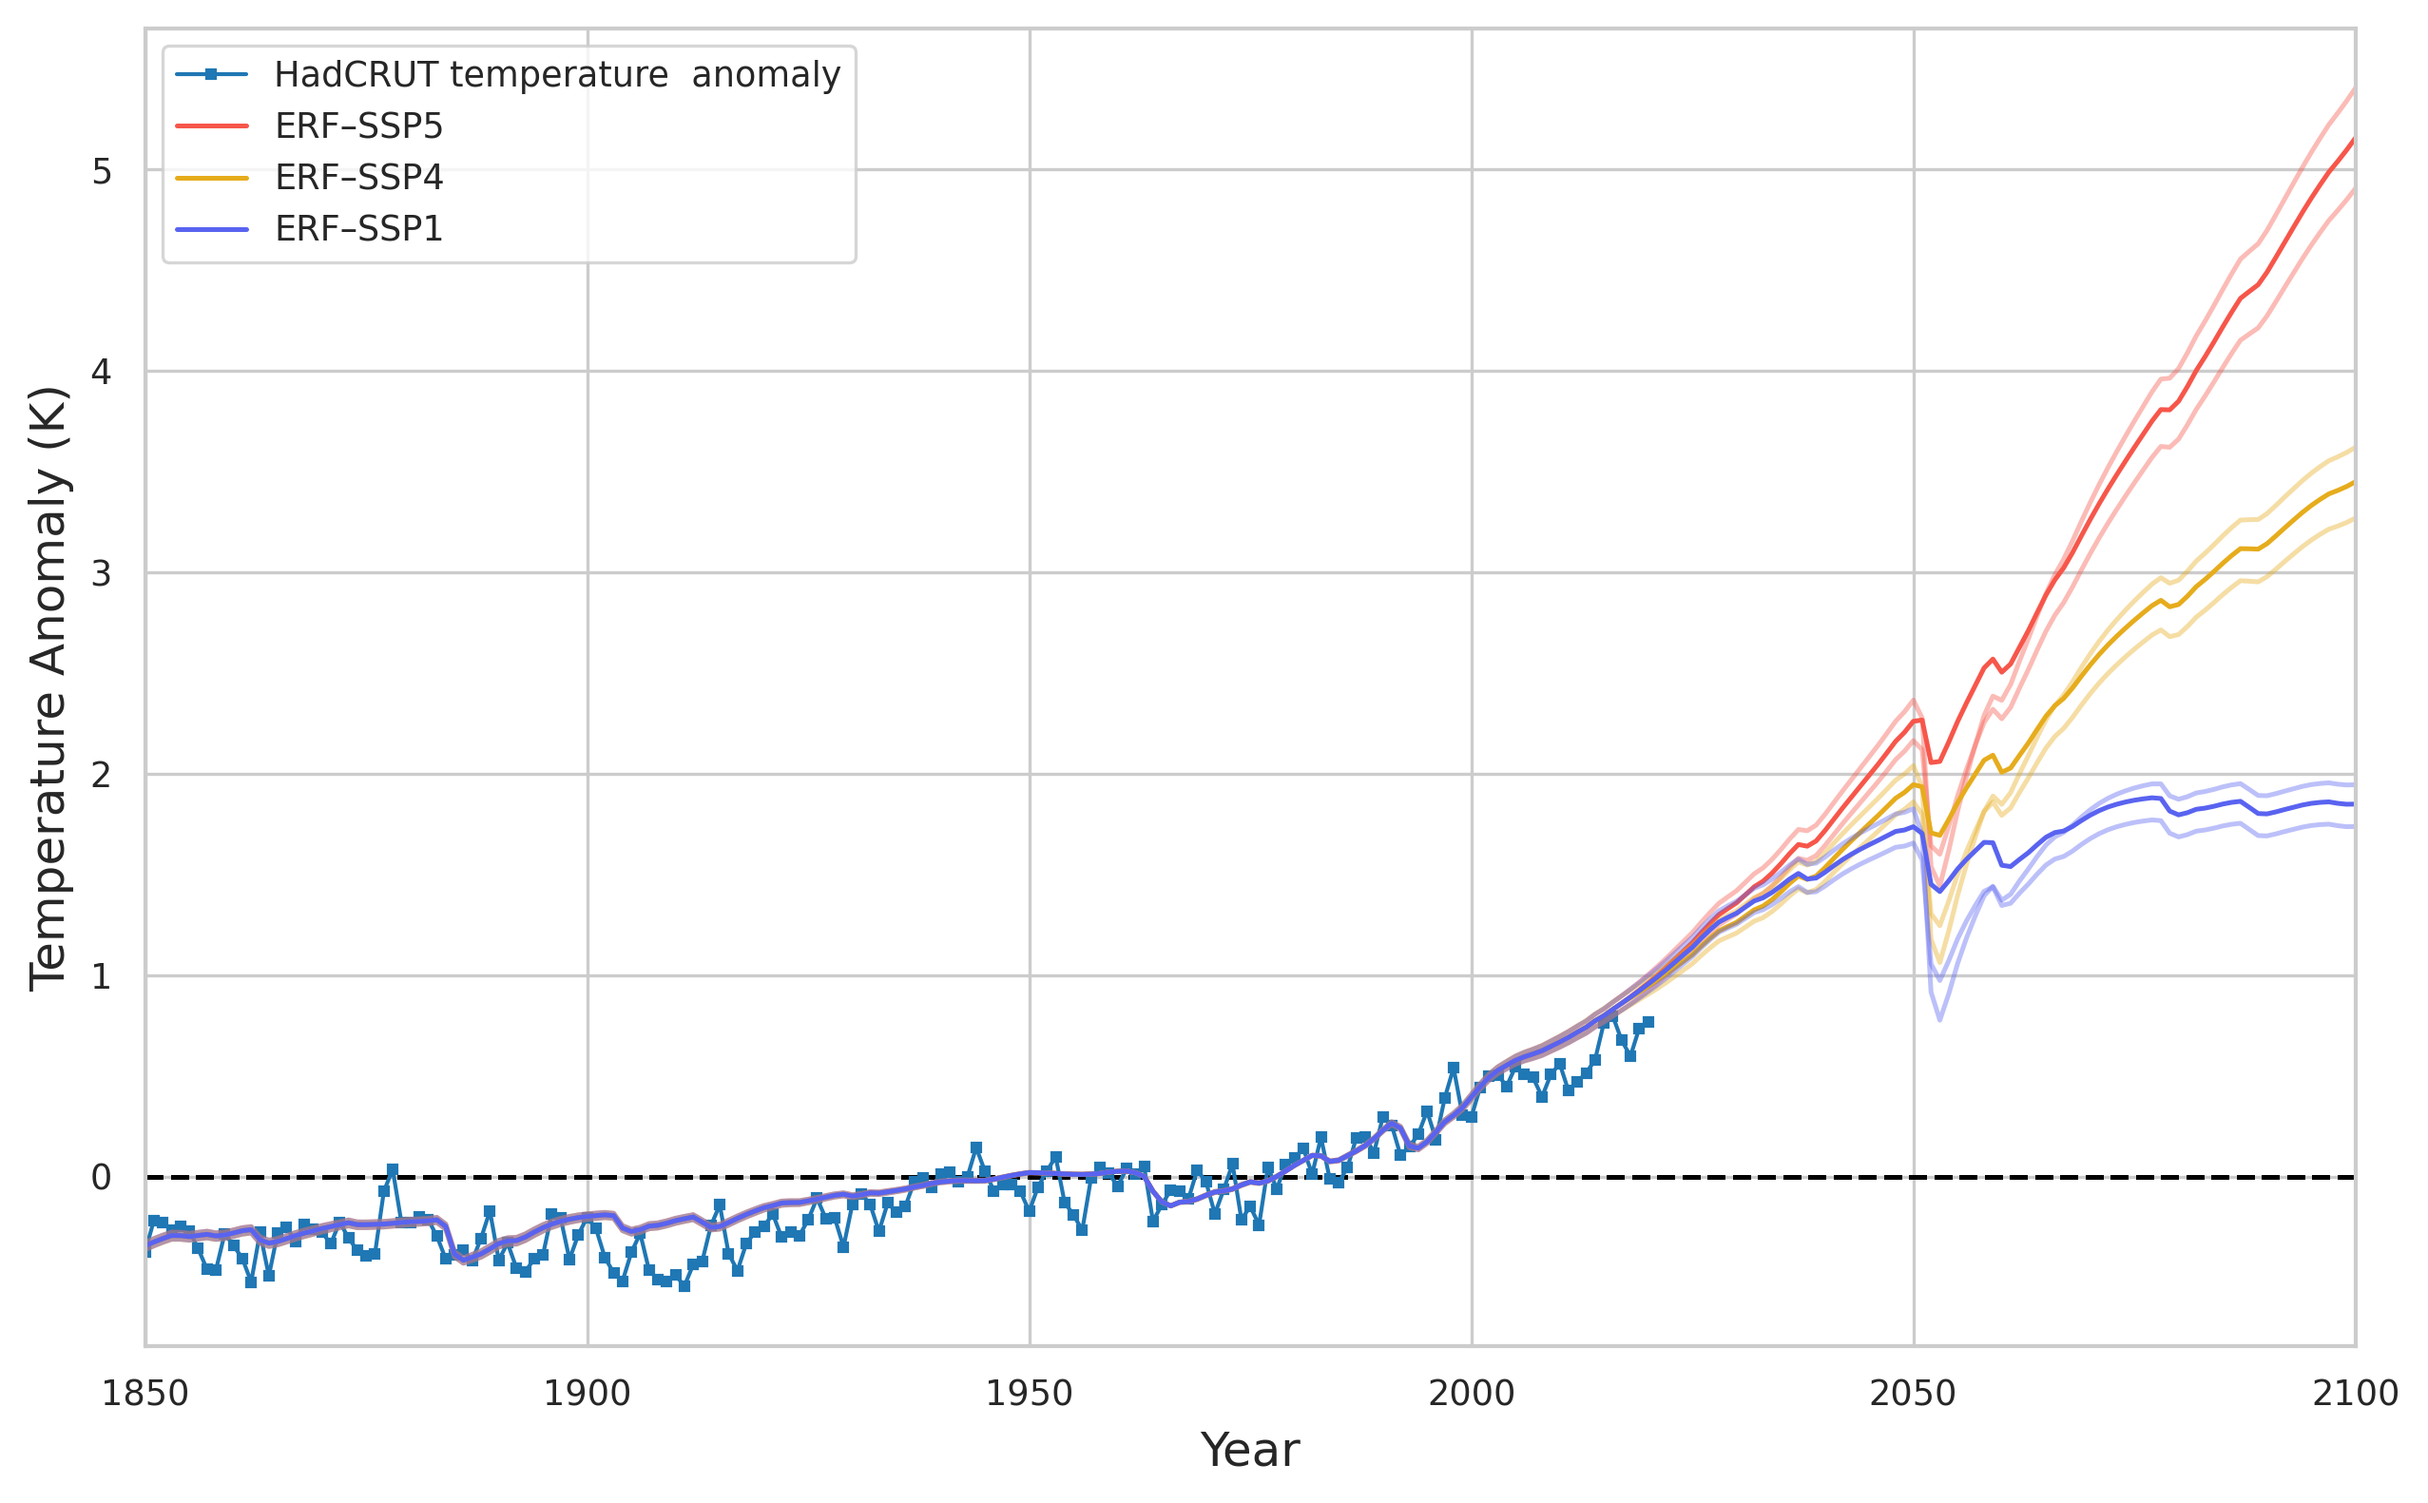
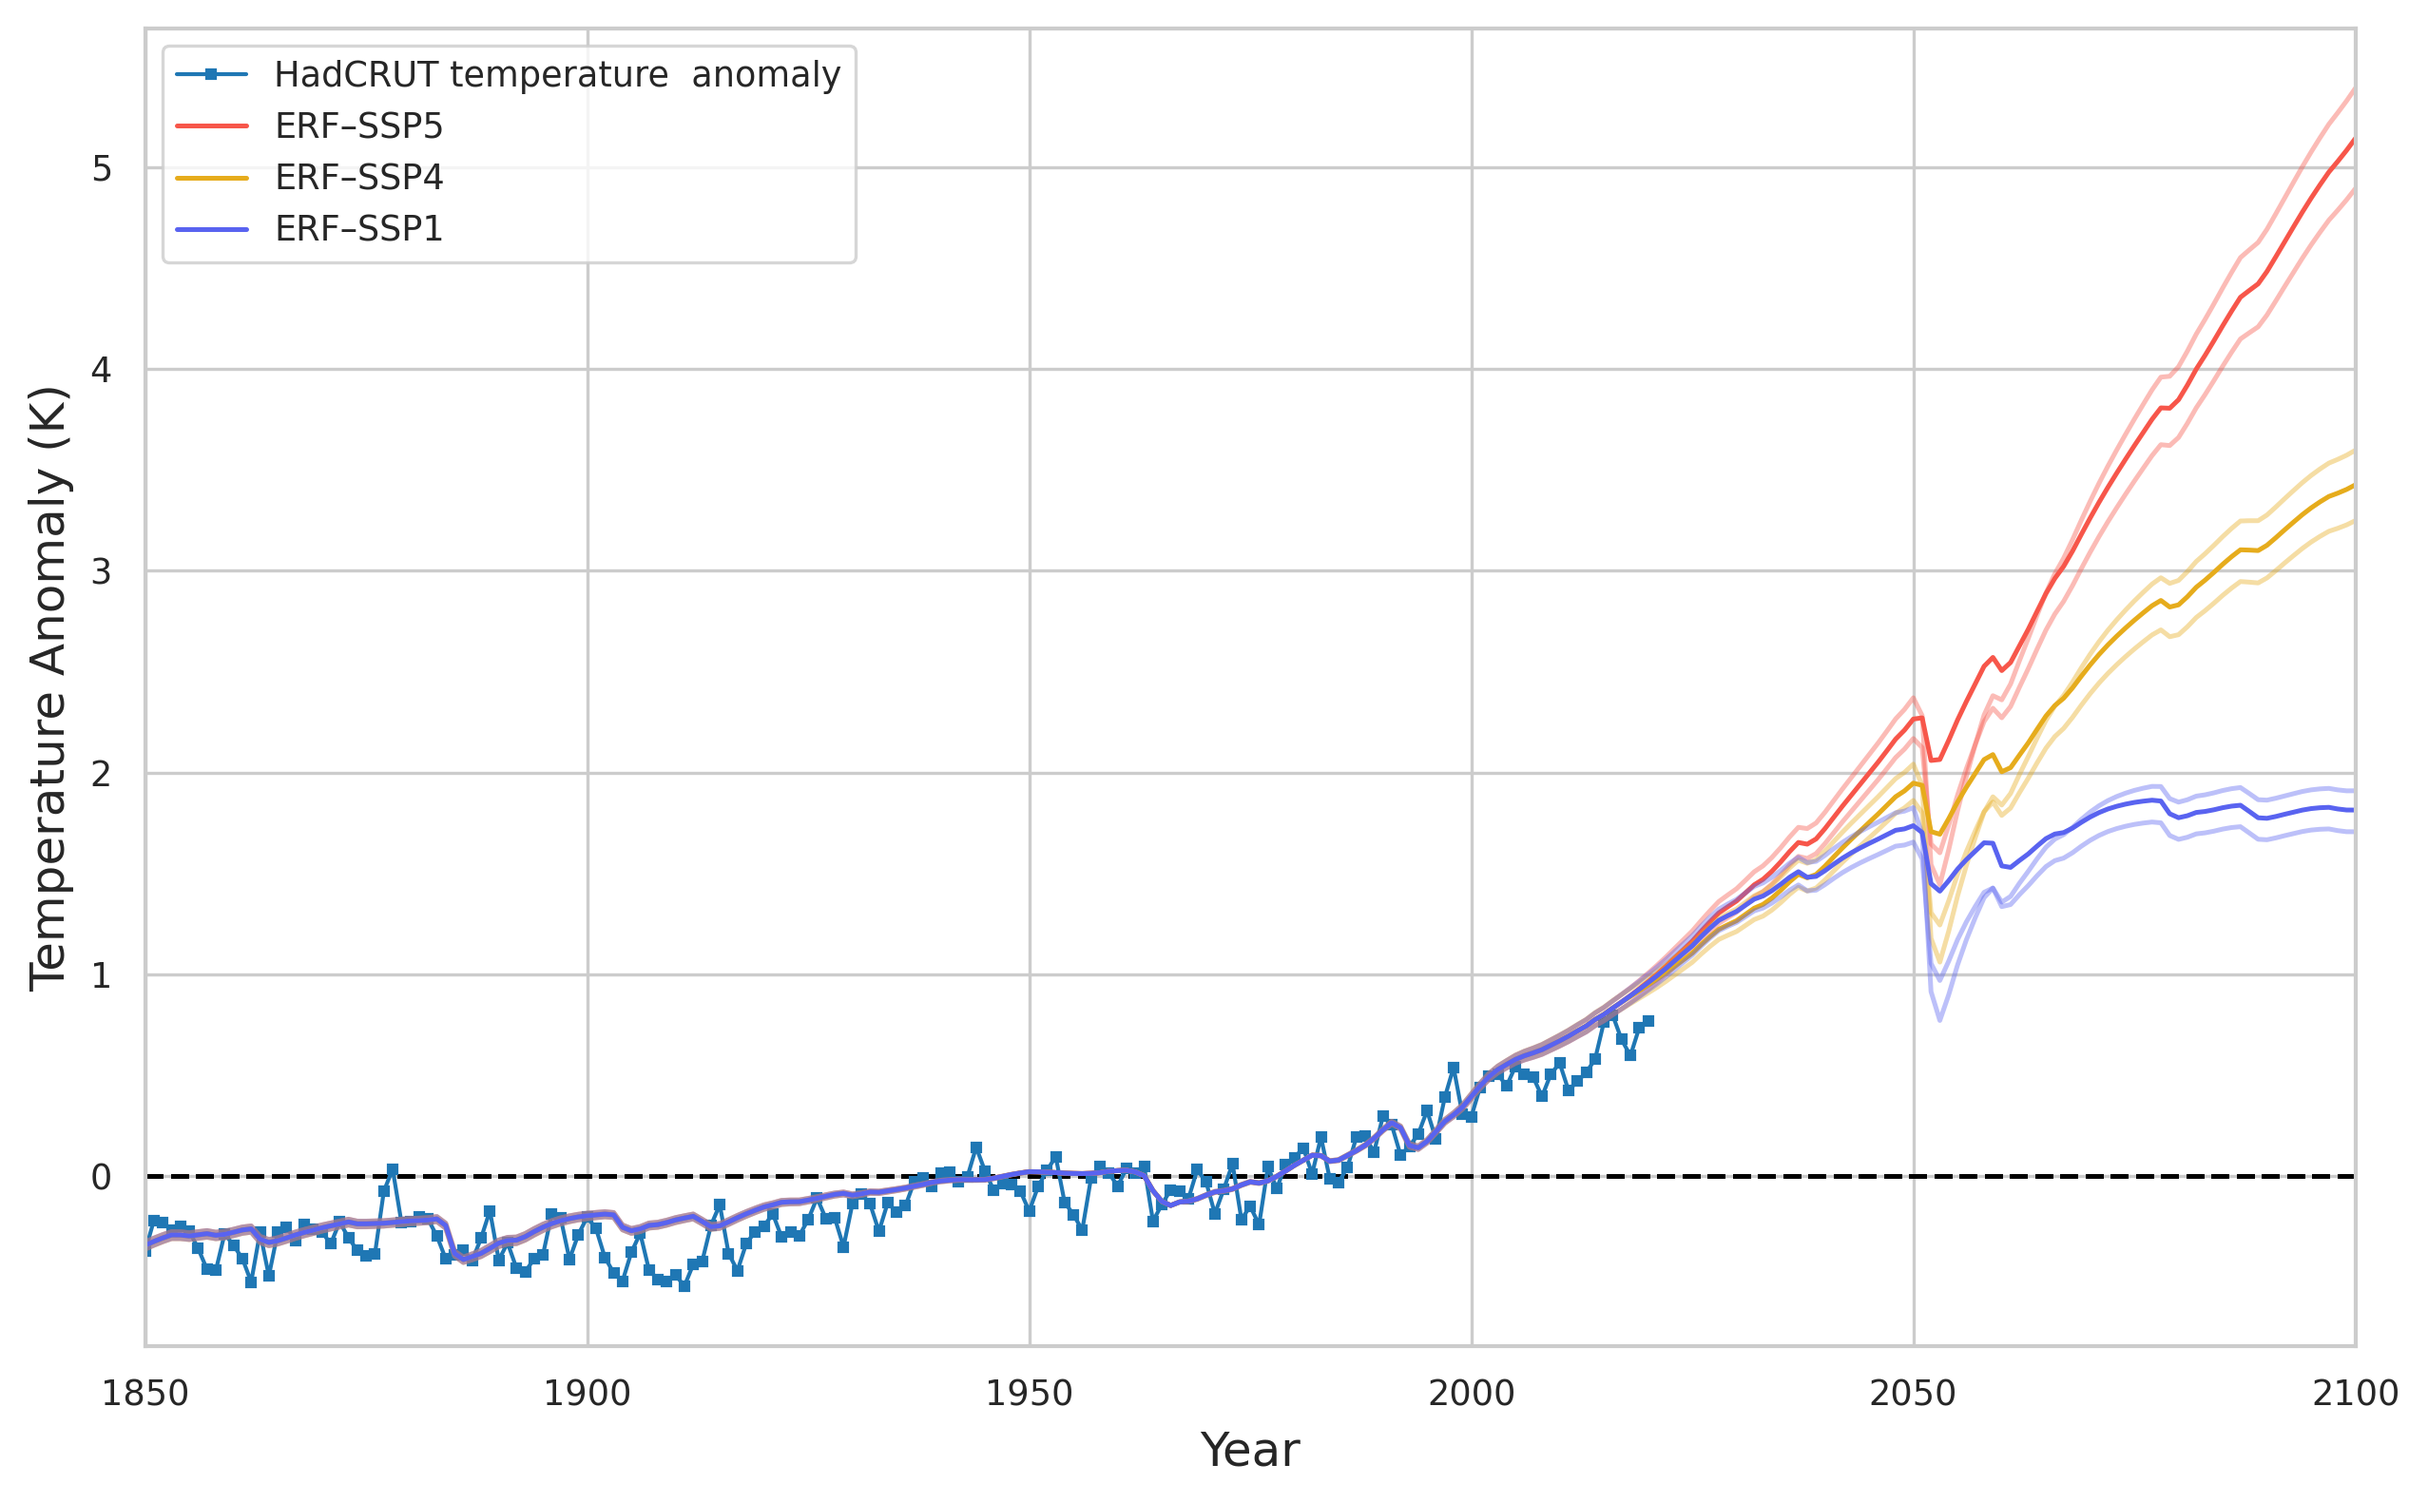
add plots

diff --git a/experiments.py b/experiments.py
@@ -5,6 +5,7 @@ from scripts import model
 from scripts.model import KRAK_VALS, KRAKATOA_YEAR
 import matplotlib.pyplot as plt
 import seaborn as sns
+import matplotlib.patches as mpatches
 
 ## GLOBALS
 FORCING_SENSITIVITY = 1
@@ -24,20 +25,7 @@ def calc_anomaly(data, num_years):
     for row in range(num_years):
         years = np.append(years, float(data[row][0]))
         anom = np.append(anom, float(data[row][1]))
-
     return anom
-
-
-def plot_model(years, model,  label, ax=None, fig=None, **kwargs):
-    if not ax:
-        fig, ax = plt.subplots(1)
-    plt.plot(years, model, label=label, **kwargs)
-    plt.hlines(0,1850,2100, linestyle='--', color='k')
-    plt.xlim(1850, 2100)
-    plt.xlabel('Year', fontsize=12)
-    plt.ylabel('Temperature Anomaly (K)', fontsize=12)
-    plt.legend()
-    return fig, ax
 
 
 def load_forcing_data(filename):
@@ -70,17 +58,41 @@ def calc_confidence_interval(data):
     return upper_conf_int, lower_conf_int
 
 
+def plot_model(years, model, ax=None, fig=None, legend=True, **kwargs):
+    if not ax:
+        fig, ax = plt.subplots(1)
+    plt.plot(years, model, **kwargs)
+    plt.hlines(0,1850,2100, linestyle='--', color='k')
+    plt.xlim(1850, 2100)
+    plt.xlabel('Year', fontsize=12)
+    plt.ylabel('Temperature Anomaly (K)', fontsize=12)
+    if legend:
+        plt.legend()
+    return fig, ax
+
+
 def plot_volcanic_record(data):
     past_volcanic_record = len(data['volcanic'].loc[1850:2024]) 
 
     fig, ax = plt.subplots(1, figsize=(10, 6))
     data['volcanic'].loc[1850:2024].plot(ax=ax)
     ax.plot(np.arange(2024,2024+past_volcanic_record), data['volcanic'].loc[1850:2024].values)
-    
     plt.savefig('outputs/volcanic_record_extended.png', bbox_inches='tight')
     plt.close()
 
-    
+def plot_temp_anom(data, data2):
+    fig, ax = plt.subplots(1, figsize=(8, 6))
+    ax.plot(np.arange(1850,2021), data, marker='s', label='HadCRUT surface temperature')
+    ax.plot(np.arange(1850,2101),data2, label='SSP5 projection')
+    plt.hlines(0,1850,2020, linestyle='--', color='k')
+    plt.xlim(1850, 2020)
+    plt.xlabel('Year', fontsize=12)
+    plt.ylabel('\Delta Temperature Anomaly (K)', fontsize=12)
+    plt.title("HadCRUT global 2 m temperature anomaly (relative to 1961-1990)")
+    plt.legend(loc='upper left')
+    plt.savefig('outputs/hadCRUT_time.png', bbox_inches='tight')
+    plt.close()
+
 
 
 def main(krakatwoa=False, save_filename='outputs/upper_ocean_projection_volcanic.png'):
@@ -101,10 +113,12 @@ def main(krakatwoa=False, save_filename='outputs/upper_ocean_projection_volcanic
     model_data_used = load_data(data_path)
     temp_anom = calc_anomaly(model_data_used, num_years=171)
     
+
     ## initialise_plot
     fig, ax = plt.subplots(1, figsize=(10,6))
     fig, ax = plot_model(years, temp_anom, label='HadCRUT temperature  anomaly', fig=fig, ax=ax, marker='s', markersize=2, linewidth=1)
     COLORS = ['#f7564a', '#e6ac1c', '#5963f0']
+    
 
     ## run model under different forcing scenarios
     scenario_files = sorted(os.listdir(path_to_ssp_forcings), reverse=True)
@@ -117,13 +131,41 @@ def main(krakatwoa=False, save_filename='outputs/upper_ocean_projection_volcanic
         projection = model.upper_ocean_temp(t=len(ERF_fut), alpha=alpha_val, F=ERF_fut, krakatwoa=krakatwoa)
         proj_upper = model.upper_ocean_temp(t=len(ERF_fut), alpha=alpha_val+1.96*0.048, F=ERF_fut, krakatwoa=krakatwoa)
         proj_lower = model.upper_ocean_temp(t=len(ERF_fut), alpha=alpha_val-1.96*0.048, F=ERF_fut, krakatwoa=krakatwoa)
+        if not krakatwoa:
+            ## IPCC
+            low_proj = model.upper_ocean_temp(t=len(ERF_fut), alpha=1.04-0.36, F=ERF_fut, krakatwoa=krakatwoa)
+            high_proj = model.upper_ocean_temp(t=len(ERF_fut), alpha=1.04+0.36, F=ERF_fut, krakatwoa=krakatwoa)
+            fig, ax = plot_model(years_fut, low_proj, fig=fig, ax=ax, alpha=.2, linestyle='--',  color=COLORS[ind], legend=False)
+            fig, ax = plot_model(years_fut, high_proj, fig=fig, ax=ax, alpha=.2, linestyle='--', color=COLORS[ind], legend=False)
+            ax.add_patch(mpatches.Rectangle((2105,low_proj.max()),2, (high_proj.max()- low_proj.max()),facecolor=COLORS[ind],
+                              clip_on=False,linewidth = 0,  alpha=.7))
+            plt.text(2108, (high_proj.max() + low_proj.max())/2, '%s – RCP %s.%s' % (scen_file[4:8].upper(), scen_file[8:9], scen_file[9:10]), color=COLORS[ind])
 
+
+        
         ## plot and save ouputs
         fig, ax = plot_model(years_fut, projection, label='%s' % (scen_file[:-16].replace('_', '–').upper()), fig=fig, ax=ax, color=COLORS[ind])
         fig, ax = plot_model(years_fut, proj_upper, label=None, fig=fig, ax=ax, alpha=.4, color=COLORS[ind])
         fig, ax = plot_model(years_fut, proj_lower, label=None, fig=fig, ax=ax, alpha=.4, color=COLORS[ind])
     fig.savefig(save_filename, bbox_inches='tight', dpi=300)
     plt.close()
+
+    ## plot temp anomaly
+    plot_temp_anom(temp_anom,projection)
+    
+    ## TODO: move following somewhere 
+    # with SSP5 -> plot value range from IPCC
+    if not krakatwoa:
+        low_proj = model.upper_ocean_temp(t=len(ERF_fut), alpha=1.04-0.36, F=ERF_fut, krakatwoa=krakatwoa)
+        high_proj = model.upper_ocean_temp(t=len(ERF_fut), alpha=1.04+0.36, F=ERF_fut, krakatwoa=krakatwoa)
+
+        ## plot and save ouputs
+        fig, ax = plt.subplots(1, figsize=(10,6))
+        fig, ax = plot_model(years_fut, low_proj, label='Low alpha', fig=fig, ax=ax, color=COLORS[ind])
+        fig, ax = plot_model(years_fut, projection, label='%s' % (scen_file[:-16].replace('_', '–').upper()), fig=fig, ax=ax, color=COLORS[ind])
+        fig, ax = plot_model(years_fut, high_proj, label='High alpha', fig=fig, ax=ax, alpha=.4, color=COLORS[ind])
+        fig.savefig('outputs/comparison_with_ipcc_alpha_range.png', bbox_inches='tight', dpi=300)
+        plt.close()
 
 
 if __name__ == '__main__':

diff --git a/scripts/model.py b/scripts/model.py
@@ -52,7 +52,7 @@ def upper_ocean_temp(t, alpha, F=None, krakatwoa=False):
                 F[i] += (KRAK_VALS[KRAKATOA_YEAR+2] * 2)
             if i == 203:
                 F[i] += (KRAK_VALS[KRAKATOA_YEAR+3] * 2)
-        T_u[i+1] = (1/C_u)*(F[i] - (alpha+gamma)*T_u[i] + T_d[i])*dt + T_u[i]
+        T_u[i+1] = (1/C_u)*(F[i] - (alpha+gamma)*T_u[i] + T_d[i]*gamma)*dt + T_u[i]
         T_d[i+1] = (gamma/C_d)*(T_u[i]-T_d[i])*dt + T_d[i]
     T_u = T_u - np.mean(T_u[start_point:end_point])
     return T_u
